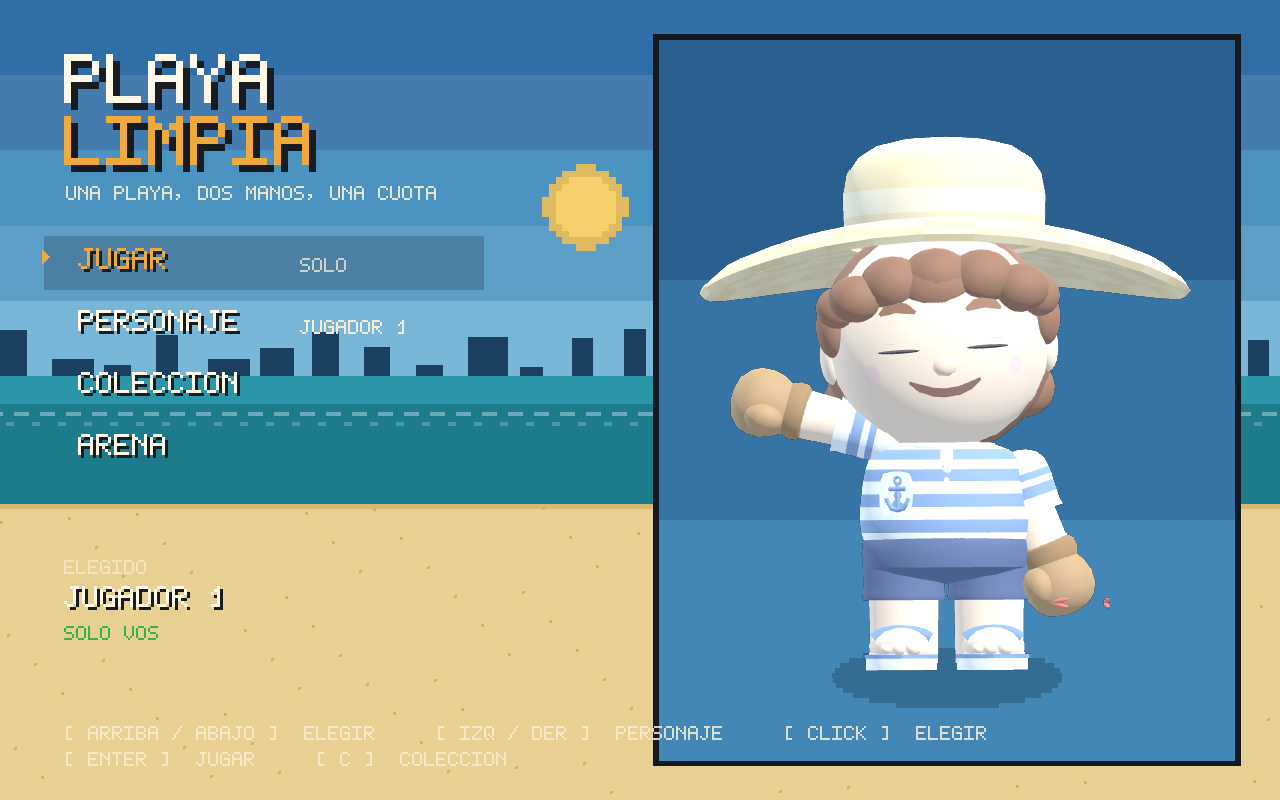
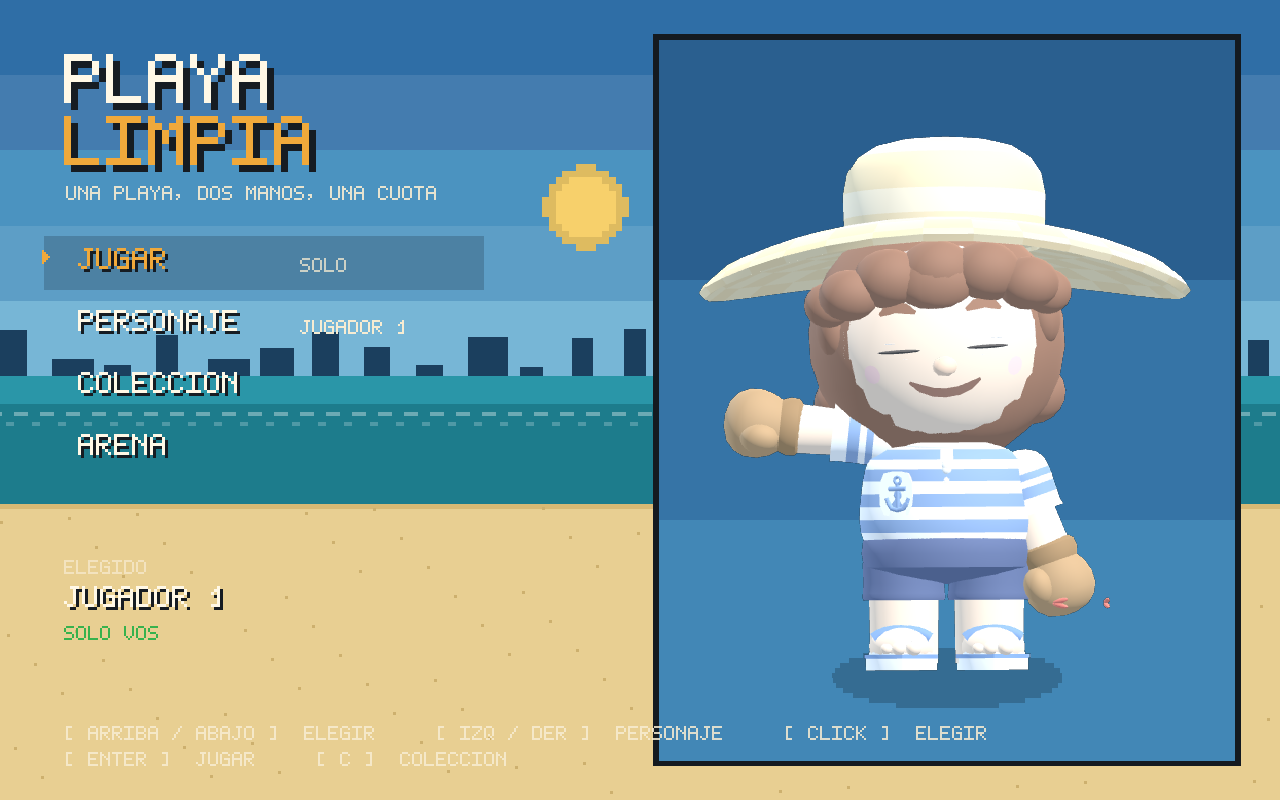
Mismo arreglo de sombrero para los dos modelos: el pelo tapa la calva
- El "calvo" entre el flequillo y el ala no era la copa hueca: era la franja de
  piel que queda porque el pelo del modelo no llega hasta el sombrero.
- CharModel.pelo_arriba() agranda el pelo ~9 % alrededor del centro de la
  cabeza. Se probaron dos alternativas y se descartaron: un disco "techo" en la
  copa (asomaba como un rectángulo sobre el flequillo) y un domo de relleno
  (tapaba la cara entera desde el frente).
- Con el ala de doble cara y el pelo agrandado, la cavidad de la copa queda
  tapada por el propio pelo: se eliminó la tapa y su código.
- El pivote del brazo quedó en el hombro real (borde interno de arriba) para
  que la manga no se separe del torso al saludar.
- Vale igual para J1 y J2 (comparten el mismo pipeline).
- tests: se reemplaza el test de la tapa por el del pelo (pelo_pivote).

133 comprobaciones headless en verde.

Changed region(s): [[0.5625, 0.2812, 0.8438, 0.5938], [0.75, 0.3438, 0.7812, 0.375]]

diff --git a/docs/PERSONAJES.md b/docs/PERSONAJES.md
@@ -51,6 +51,21 @@ origen del modelo, así que escalar un ojo directamente lo escala desde los pies
 (la cara se rompe). Cada pieza que hay que escalar se envuelve en un pivote en
 **su** centro (`_pivote_en_centro`).
 
+## Sombrero: las tres cosas que había que arreglar
+
+Los dos modelos (J1 y J2) usan el mismo tratamiento, en `CharModel`:
+
+1. **Ala de doble cara** (`sombrero_solido`): el GLB trae el ala de una sola
+   cara y desde abajo se veía el hueco → se duplican los materiales del
+   sombrero con `CULL_DISABLED`.
+2. **Calva entre el flequillo y el ala** (`pelo_arriba`): el pelo del modelo no
+   llega hasta el sombrero. Se agranda el pelo ~9 % alrededor del centro de la
+   cabeza. Se probó antes rellenar con un domo aparte y **tapaba la cara**, así
+   que la solución es agrandar el pelo que ya existe.
+3. **Copa hueca**: al agrandar el pelo y con el ala de doble cara, la cavidad
+   queda tapada por el propio pelo; no hace falta ninguna pieza extra (un disco
+   "techo" asomaba por delante del flequillo).
+
 ## Qué necesita un modelo para que el rig lo agarre
 
 El rig se arma solo al cargar (`_prepare_external`) y agrupa mallas **por
